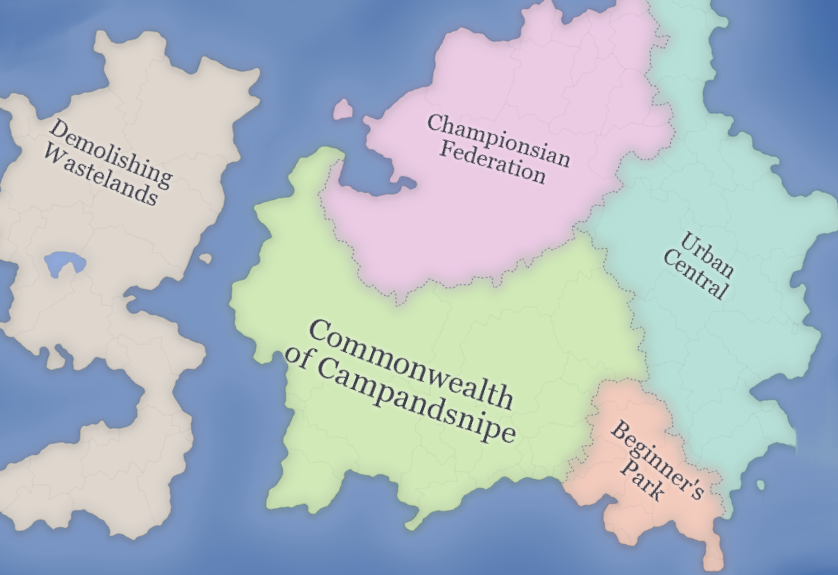
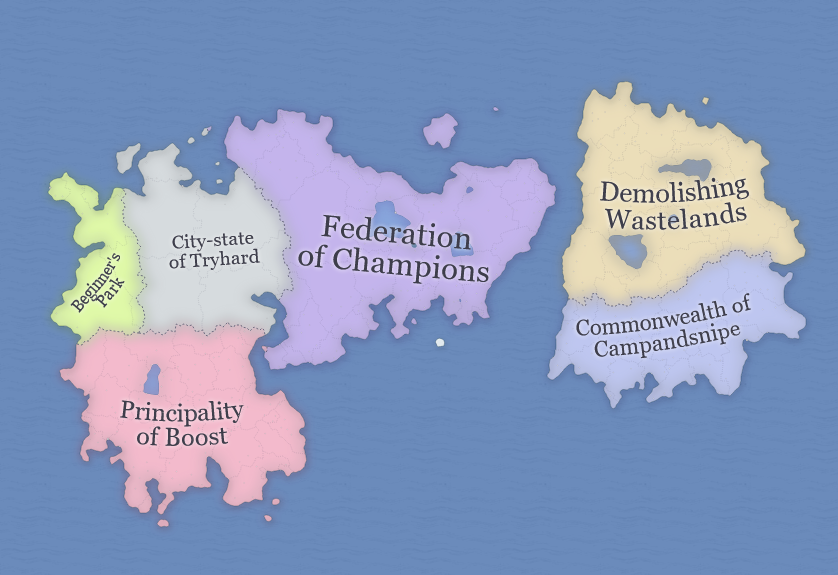
Update existing map and click areas

diff --git a/rlbot_gui/gui/js/story-challenges.js b/rlbot_gui/gui/js/story-challenges.js
@@ -25,36 +25,36 @@ const CITY_DISPLAY_INFO = {
     'INTRO': {
         displayName: "Beginner's Park",
         message: "Shoddy field for shoddy players. No boost available.",
-        overlayLocation: [390, 630],
-        clickArea: "649,380,601,379,586,457,566,479,599,525,635,546,718,566,718,514",
+        overlayLocation: [229, 92], 
+        clickArea: "45,181,53,319,79,347,97,329,141,335,144,277,121,183,70,169",
         prereqs: [],
     },
     'URBAN': {
         displayName: 'Urban Central',
         message: 'Place to start making your name! People at this level know the value of Boost upgrades!',
-        overlayLocation: [350, 700],
-        clickArea: "650,3,671,141,585,221,643,354,724,509,801,437,829,221,779,9",
+        overlayLocation: [205, 225],
+        clickArea: "124,182,146,335,281,321,289,237,241,172,149,126,115,147",
         prereqs: ['INTRO']
     },
     'WASTELAND': {
         displayName: 'Demolishing Wastelands',
         message: 'Don\'t expect politeness here. Home of the demo experts!',
-        overlayLocation: [85, 155],
-        clickArea: "4,59,109,5,268,62,199,269,166,532,3,547",
+        overlayLocation: [123, 616],
+        clickArea: "582,71,558,291,666,296,726,251,812,266,754,85",
         prereqs: ['URBAN']
     },
     'CAMPANDSNIPE': {
         displayName: 'Commonwealth of Campandsnipe',
         message: 'This city is a little different. Boost is limitless but the ball seems a bit different!',
-        overlayLocation: [300, 500],
-        clickArea: "295,158,254,198,232,302,255,366,270,502,351,525,446,508,562,473,595,384,641,331,578,229,404,294,332,226,323,187,348,149,326,143",
+        overlayLocation: [369, 724],
+        clickArea: "556,297,537,377,673,412,749,391,821,332,820,261,725,253,665,301",
         prereqs: ['URBAN']
     },
     'CHAMPIONSIAN': {
         displayName: 'Championsian Federation',
         message: 'You have made it far but this is the next level. The odds are stacked against you but if you win here, you will be the Champion of this world.',
-        overlayLocation: [64, 540],
-        clickArea: "401,92,334,176,405,285,579,217,668,125,637,4,469,21",
+        overlayLocation: [193, 520],
+        clickArea: "227,160,293,237,284,317,267,355,280,377,425,336,487,321,557,232,559,160,417,106,222,113",
         prereqs: ['WASTELAND', 'CAMPANDSNIPE']
     }
 };
@@ -151,7 +151,7 @@ export default {
                     <img v-for="(city, cityId) in cityDisplayInfo"
                         class="story-map-icon"
                         v-bind:src="getOverlayForCity(cityId)"
-                        v-bind:style="{top: city.overlayLocation[0] + 'px', left: city.overlayLocation[1] + 'px', postion: 'absolute'}" 
+                        v-bind:style="{top: city.overlayLocation[0] - 20 + 'px', left: city.overlayLocation[1] + 'px', postion: 'absolute'}" 
                         v-if="getCityState(cityId) !== ${CITY_STATE.OPEN}" />
 
                     <map name="story-image-map">
